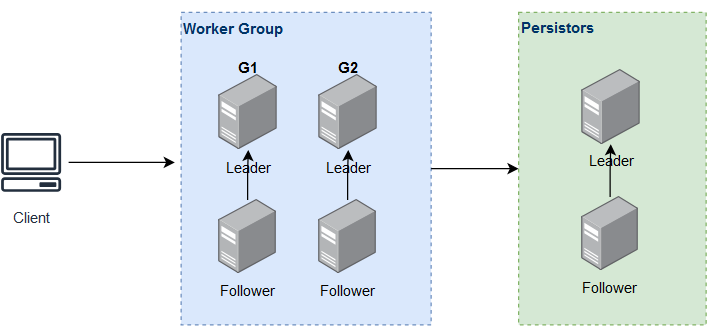
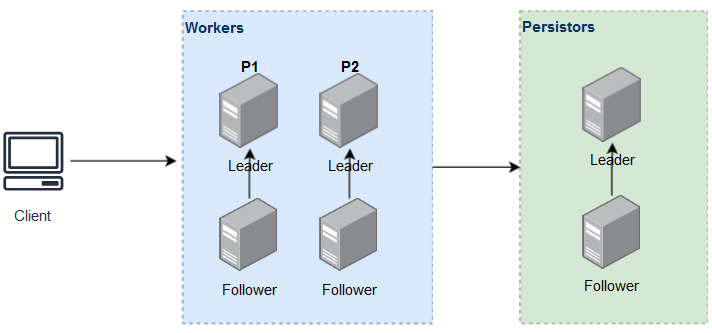
rename Partition

diff --git a/src/cluster/metadata.go b/src/cluster/metadata.go
@@ -8,7 +8,6 @@ import (
 	"errors"
 	"fmt"
 	"os"
-	"topiik/internal/consts"
 	"topiik/internal/util"
 	"topiik/node"
 )
@@ -16,10 +15,7 @@ import (
 // var clusterInfo = &Cluster{Ctls: make(map[string]node.NodeSlim), Wkrs: make(map[string]node.NodeSlim)}
 var term int
 
-var workerGroupInfo = &WorkerGroupInfo{Groups: make(map[string]*WorkerGroup)}
-
-// var controllerInfo = &NodesInfo{Nodes: make(map[string]node.NodeSlim)}
-var partitionInfo = &PartitionInfo{PtnMap: make(map[string]*node.Partition), Slots: make(map[uint16]string, consts.SLOTS)}
+var partitionInfo = &PartitionInfo{Ptns: make(map[string]*Partition)}
 var nodeStatus = &NodeStatus{Role: RAFT_FOLLOWER, Term: 0}
 
 const (
@@ -44,7 +40,7 @@ func LoadWorkerGroupInfo() (err error) {
 		if err != nil {
 			l.Panic().Msg(err.Error())
 		}
-		err = json.Unmarshal([]byte(jsonStr), &workerGroupInfo)
+		err = json.Unmarshal([]byte(jsonStr), &partitionInfo)
 		if err != nil {
 			l.Panic().Msg(err.Error())
 		}
@@ -53,13 +49,13 @@ func LoadWorkerGroupInfo() (err error) {
 	return nil
 }
 
-func getWorkGroup(ndId string) WorkerGroup {
-	for _, wg := range workerGroupInfo.Groups {
+func getPartition(ndId string) Partition {
+	for _, wg := range partitionInfo.Ptns {
 		if _, ok := wg.Nodes[ndId]; ok {
 			return *wg
 		}
 	}
-	return WorkerGroup{}
+	return Partition{}
 }
 
 func GetNodeStatus() NodeStatus {
@@ -71,7 +67,7 @@ func GetTerm() int {
 }
 
 func GetNodeByKeyHash(keyHash uint16) (node.NodeSlim, error) {
-	for _, group := range workerGroupInfo.Groups {
+	for _, group := range partitionInfo.Ptns {
 		if _, ok := group.Slots[keyHash]; ok {
 			return group.Nodes[group.LeaderNodeId], nil
 		}
@@ -87,8 +83,8 @@ func getWorkerFilePath() string {
 	return util.GetMainPath() + slash + dataDIR + slash + "__metadata_worker__"
 }
 
-func notifyWorkerGroupChanged() {
-	l.Info().Msg("metadata::notifyWorkerGroupChanged begin")
-	wrkGrpUpdCh <- struct{}{}
-	l.Info().Msg("metadata::notifyWorkerGroupChanged end")
+func notifyPartitionChanged() {
+	l.Info().Msg("metadata::notifyPartitionChanged begin")
+	ptnUpdCh <- struct{}{}
+	l.Info().Msg("metadata::notifyPartitionChanged end")
 }

diff --git a/src/cluster/raft_append_entry.go b/src/cluster/raft_append_entry.go
@@ -25,18 +25,17 @@ var connCache = make(map[string]*net.TCPConn)
 
 // Controller issues AppendEntries RPCs to replicate metadata to follower,
 // or send heartbeats (AppendEntries RPCs that carry no data)
-func AppendEntries(wrkGrp WorkerGroup) {
+func AppendEntries(ptn Partition) {
 	hbTicker = time.NewTicker(200 * time.Millisecond)
 	defer close(ptnUpdCh)
-	defer close(wrkGrpUpdCh)
 
 	//dialErrorCounter := 0 // this not 'thread' safe, but it's not important
 	for {
 		select {
 		case <-hbTicker.C:
-			appendHeartbeat(wrkGrp)
-		case <-wrkGrpUpdCh:
-			appendWrkGrpInfo()
+			appendHeartbeat(ptn)
+		case <-ptnUpdCh:
+			appendPtnInfo()
 		}
 	}
 }
@@ -62,18 +61,18 @@ func appendClusterInfo() {
 }*/
 
 // sync worker group info to workers
-func appendWrkGrpInfo() {
+func appendPtnInfo() {
 	var buf []byte
 	var bbuf = new(bytes.Buffer)
-	data, err := json.Marshal(workerGroupInfo)
+	data, err := json.Marshal(partitionInfo)
 	if err != nil {
 		l.Err(err).Msg(err.Error())
 	} else {
 		binary.Write(bbuf, binary.LittleEndian, ENTRY_TYPE_WRKGRP)
 		buf = append(buf, bbuf.Bytes()...)
 		buf = append(buf, data...)
-		for _, wrkGrp := range workerGroupInfo.Groups {
-			for _, worker := range wrkGrp.Nodes {
+		for _, ptn := range partitionInfo.Ptns {
+			for _, worker := range ptn.Nodes {
 				if worker.Id == node.GetNodeInfo().Id {
 					continue
 				}
@@ -83,15 +82,15 @@ func appendWrkGrpInfo() {
 	}
 }
 
-func appendHeartbeat(wrkGrp WorkerGroup) {
-	for _, controller := range wrkGrp.Nodes {
+func appendHeartbeat(ptn Partition) {
+	for _, controller := range ptn.Nodes {
 		if controller.Id == node.GetNodeInfo().Id {
 			continue
 		}
 		go send(controller.Addr2, controller.Id, []byte{})
 	}
 
-	for _, worker := range wrkGrp.Nodes {
+	for _, worker := range ptn.Nodes {
 		if worker.Id == node.GetNodeInfo().Id {
 			continue
 		}

diff --git a/src/cluster/cluster_init.go b/src/cluster/cluster_init.go
@@ -36,17 +36,17 @@ func InitCluster(workers map[string]string, ptnCount int) (err error) {
 	}
 
 	// 2. rpc update workers
-	for _, group := range workerGroupInfo.Groups {
+	for _, group := range partitionInfo.Ptns {
 		for _, nd := range group.Nodes {
 			if nd.Id == node.GetNodeInfo().Id {
 				continue
 			}
-			rpcAddNode(nd.Addr2, workerGroupInfo.ClusterId, group.Id)
+			rpcAddNode(nd.Addr2, partitionInfo.ClusterId, group.Id)
 		}
 	}
 
 	// 3. send notification to sync worker group to other workers
-	notifyWorkerGroupChanged()
+	notifyPartitionChanged()
 
 	// 4. after init, start RequestVote
 	go RequestVote()
@@ -62,17 +62,17 @@ func doInit(workers map[string]string, ptnCount int) error {
 
 	// generate cluster id
 	clusterId := strings.ToLower(util.RandStringRunes(10))
-	workerGroupInfo.ClusterId = clusterId
+	partitionInfo.ClusterId = clusterId
 
 	// set controllerInfo
 	var addrIdx = 0
 	var currentNodeWgId string
 	for i := 0; i < ptnCount; i++ {
 		addrIdx = 0
-		workerGroup := WorkerGroup{Nodes: make(map[string]node.NodeSlim)}
+		workerGroup := Partition{Nodes: make(map[string]node.NodeSlim)}
 		wgId := strings.ToLower(util.RandStringRunes(10))
 		workerGroup.Id = wgId
-		workerGroupInfo.Groups[wgId] = &workerGroup
+		partitionInfo.Ptns[wgId] = &workerGroup
 		for ndId, addr := range workers {
 			if ndId == node.GetNodeInfo().Id {
 				currentNodeWgId = wgId
@@ -93,7 +93,7 @@ func doInit(workers map[string]string, ptnCount int) error {
 	node.InitCluster(clusterId, currentNodeWgId)
 
 	// save controllerInfo and workerInfo
-	saveWorkerGroups()
+	savePartitions()
 	return nil
 }
 

diff --git a/src/cluster/worker_group.go b/src/cluster/worker_group.go
@@ -50,7 +50,7 @@ func addPartition(controllers map[string]string) {
 		newPartition.NodeSet[ndId] = &node.NodeSlim{Id: ndId}
 		i++
 	}
-	partitionInfo.PtnMap[ptnId] = newPartition
+	//partitionInfo.PtnMap[ptnId] = newPartition
 }
 
 // Remove partition
@@ -62,10 +62,10 @@ func RemovePartition(ptnId string) error {
 func ReShard(isCreate bool) (err error) {
 	// brand new cluster without partition yet
 	if isCreate {
-		var ptnCount = len(workerGroupInfo.Groups)
+		var ptnCount = len(partitionInfo.Ptns)
 		var i int = 0
-		for _, group := range workerGroupInfo.Groups {
-			group.Slots = map[uint16]bool{}
+		for _, ptn := range partitionInfo.Ptns {
+			ptn.Slots = map[uint16]bool{}
 			var from int
 			var to int
 			from = i * (consts.SLOTS / ptnCount) // p=2--> i=0: 0, i=1: 512
@@ -75,23 +75,23 @@ func ReShard(isCreate bool) (err error) {
 				to = (i+1)*(consts.SLOTS/ptnCount) - 1 // p=2--> i=0: 511, i=1: 1024
 			}
 			for i := from; i < to; i++ {
-				group.Slots[uint16(i)] = true
+				ptn.Slots[uint16(i)] = true
 			}
 			i++
 		}
-		fmt.Println(workerGroupInfo)
+		fmt.Println(partitionInfo)
 	} else {
 		//
 	}
 
-	saveWorkerGroups()
+	savePartitions()
 
 	return err
 }
 
 // save worker group
-func saveWorkerGroups() (err error) {
-	data, err := json.Marshal(workerGroupInfo)
+func savePartitions() (err error) {
+	data, err := json.Marshal(partitionInfo)
 	if err != nil {
 		l.Err(err).Msgf("cluster::saveControllerInfo %s", err.Error())
 		return err

diff --git a/src/cluster/cluster.go b/src/cluster/cluster.go
@@ -24,9 +24,9 @@ func SetLeaderCtlAddr(addr string) {
 }
 
 func SetWorkerGroupInfo(data []byte) error {
-	err := json.Unmarshal(data, &workerGroupInfo)
-	fmt.Println(workerGroupInfo)
-	saveWorkerGroups()
+	err := json.Unmarshal(data, &partitionInfo)
+	fmt.Println(partitionInfo)
+	savePartitions()
 	return err
 }
 
@@ -35,19 +35,19 @@ func SetHeartbeat(heartbeat uint16, heartbeatAt int64) {
 	nodeStatus.HeartbeatAt = heartbeatAt
 }
 
-func GetWrkGrpLeaders() (workers []node.NodeSlim) {
-	for _, group := range workerGroupInfo.Groups {
-		leader := group.Nodes[group.LeaderNodeId]
+func GetPtnLeaders() (workers []node.NodeSlim) {
+	for _, ptn := range partitionInfo.Ptns {
+		leader := ptn.Nodes[ptn.LeaderNodeId]
 		workers = append(workers, leader)
 	}
 	return workers
 }
 
-func GetWrkGroupLeader(ndId string) (leader node.NodeSlim) {
-	for _, group := range workerGroupInfo.Groups {
-		if _, ok := group.Nodes[ndId]; ok {
-			if group.LeaderNodeId != "" {
-				leader = group.Nodes[group.LeaderNodeId]
+func GetPtnLeader(ndId string) (leader node.NodeSlim) {
+	for _, ptn := range partitionInfo.Ptns {
+		if _, ok := ptn.Nodes[ndId]; ok {
+			if ptn.LeaderNodeId != "" {
+				leader = ptn.Nodes[ptn.LeaderNodeId]
 				break
 			}
 		}

diff --git a/src/cluster/datatype.go b/src/cluster/datatype.go
@@ -1,6 +1,6 @@
 // ©2024 www.topiik.com
 // author: Duan Hongxing
-// data: 3 Jul 2024
+// data: 3 Jul, 2024
 
 package cluster
 
@@ -8,12 +8,12 @@ import (
 	"topiik/node"
 )
 
-type WorkerGroupInfo struct {
+type PartitionInfo struct {
 	ClusterId string
-	Groups    map[string]*WorkerGroup
+	Ptns    map[string]*Partition
 }
 
-type WorkerGroup struct {
+type Partition struct {
 	Id           string
 	LeaderNodeId string                   // dynamic update
 	Nodes        map[string]node.NodeSlim // nodes in the group
@@ -30,18 +30,6 @@ type Cluster struct {
 	Ver  uint   // compare which is more lastest
 	Ctls map[string]node.NodeSlim
 	Wkrs map[string]node.NodeSlim
-}
-
-// datatype of ControllerInfo and WorkerInfo
-type NodesInfo struct {
-	ClusterId string
-	Nodes     map[string]node.NodeSlim
-}
-
-type PartitionInfo struct {
-	ClusterId string
-	PtnMap    map[string]*node.Partition
-	Slots     map[uint16]string
 }
 
 // store dynamic node status in runtime

diff --git a/src/cluster/raft_request_vote.go b/src/cluster/raft_request_vote.go
@@ -34,7 +34,7 @@ func RequestVote() {
 	if nodeStatus.Role == RAFT_LEADER {
 		return
 	}
-	wrkGrp := getWorkGroup(node.GetNodeInfo().Id)
+	wrkGrp := getPartition(node.GetNodeInfo().Id)
 	if wrkGrp.Id == "" {
 		l.Warn().Msgf("RequestVote Invalid worker group")
 		return
@@ -118,7 +118,7 @@ func RequestVote() {
 			//time.Sleep(500 * time.Millisecond)
 
 			// when new Leader selected, try to sync cluster metadata
-			notifyWorkerGroupChanged()
+			notifyPartitionChanged()
 
 			/* Print Selected Leader */
 			l.Info().Msgf("[TOPIIK] ~!~ selected as new leader")

diff --git a/src/cluster/show.go b/src/cluster/show.go
@@ -13,7 +13,7 @@ import (
 func Show() string {
 	cluData := datatype.ClusterData{}
 
-	for _, ptn := range partitionInfo.PtnMap {
+	/*for _, ptn := range partitionInfo.PtnMap {
 		ptnData := datatype.PartitionData{
 			Id: ptn.Id,
 		}
@@ -23,7 +23,7 @@ func Show() string {
 			ptnData.Workers = append(ptnData.Workers, datatype.NodeData{Id: nd.Id, Address: nd.Addr})
 		}
 		cluData.Partitions = append(cluData.Partitions, ptnData)
-	}
+	}*/
 
 	rslt, err := json.MarshalIndent(cluData, "", "    ")
 	if err != nil {

diff --git a/src/executor/executor.go b/src/executor/executor.go
@@ -106,7 +106,7 @@ func Execute(msg []byte, srcAddr string, serverConfig *config.ServerConfig) (fin
 		if cluster.GetNodeStatus().Role == cluster.RAFT_LEADER { // if is leader, then just return leader's address
 			address = serverConfig.Listen
 		} else {
-			leader := cluster.GetWrkGroupLeader(node.GetNodeInfo().Id)
+			leader := cluster.GetPtnLeader(node.GetNodeInfo().Id)
 			address = leader.Addr
 		}
 		// if not current not controller leader, nor in any cluster, i.e. LeaderControllerAddr is empty

diff --git a/src/executor/keyy/keys.go b/src/executor/keyy/keys.go
@@ -57,7 +57,7 @@ func Keys(req datatype.Req) (result []string, err error) {
 // forward KEYS command to each group
 func ForwardKeys(execute shared.ExeFn, req datatype.Req, msg []byte) (res []string) {
 	var err error
-	for _, worker := range cluster.GetWrkGrpLeaders() {
+	for _, worker := range cluster.GetPtnLeaders() {
 		//buf := shared.ForwardByWorker(worker, msg) // get keys from each worker leader
 		buf := shared.ExecuteOrForward(worker, execute, command.KEYS_I, req, msg)
 		if len(buf) > 4 {

diff --git a/src/executor/keyy/del.go b/src/executor/keyy/del.go
@@ -31,7 +31,7 @@ func Del(req datatype.Req) (rslt int64, err error) {
 // forward DEL command to each group
 func ForwardDel(execute shared.ExeFn, req datatype.Req, msg []byte) (rslt int64) {
 	var err error
-	for _, worker := range cluster.GetWrkGrpLeaders() {
+	for _, worker := range cluster.GetPtnLeaders() {
 		//buf := shared.ForwardByWorker(worker, msg) // get keys from each worker leader
 		buf := shared.ExecuteOrForward(worker, execute, command.DEL_I, req, msg)
 		if len(buf) > 4 {

diff --git a/src/executor/keyy/exists.go b/src/executor/keyy/exists.go
@@ -40,7 +40,7 @@ func ForwardExists(execute shared.ExeFn, req datatype.Req, msg []byte, keyCount 
 		rslt[i] = "F"
 	}
 
-	for _, worker := range cluster.GetWrkGrpLeaders() {
+	for _, worker := range cluster.GetPtnLeaders() {
 		//buf := shared.ForwardByWorker(worker, msg) // get keys from each worker leader
 		buf := shared.ExecuteOrForward(worker, execute, command.EXISTS_I, req, msg)
 		if len(buf) > 4 {
